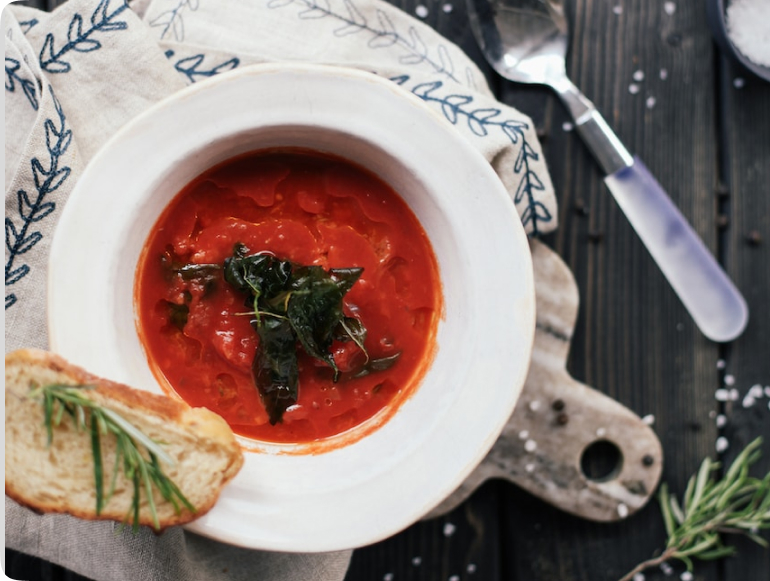
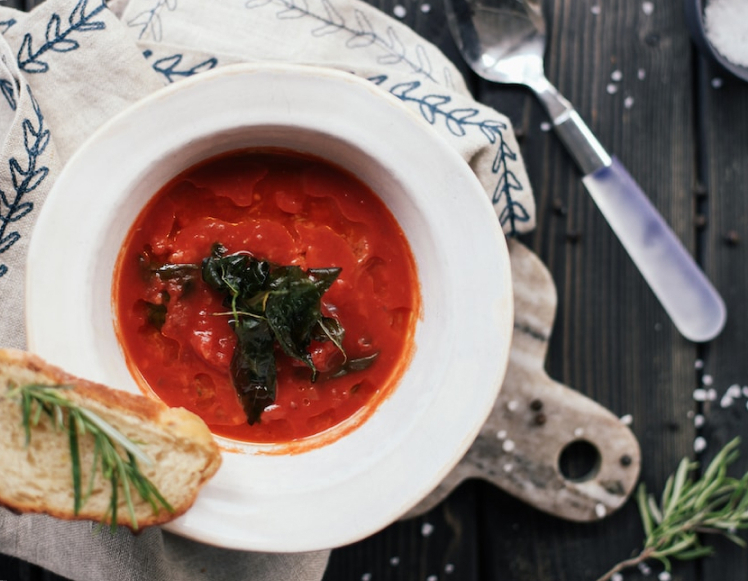
news

diff --git a/src/html_components/_values.html b/src/html_components/_values.html
@@ -2,44 +2,36 @@
     <h2 class="title title_h2 title_h2--marron">наши ценности</h2>
     <div class="box box_values">
         <div class="box__item box__item_values">
-            <picture>
-                <source srcset="img/about2-pc@1x.jpg" media="(min-width: 1200px)" sizes="100w">
-                <source srcset="img/about2-tablet@1x.jpg" media="(min-width: 768px)" sizes="100w">
-                <img class="box__picture" src="img/about2-mobile@1x.jpg" alt="" width="100%">
-            </picture>
+            <div class="box__foo">
+                <img class="recepies__picture" src="img/about2-pc@1x.webp" alt="">
+            </div>
             <div class="box__mind">
                 <h3 class="title title_h3 title_h3-mind">пришел увидел заказал</h3>
                 <p class="text text_mind">Мы создали платформу, на которой Вы можете ознакомится с Региональными Рецептами Испании и заказать продукты в точном количестве, которое нужно для приготовления</p>
             </div>
         </div>
         <div class="box__item box__item_values">
-            <picture>
-                <source srcset="img/about3-pc@1x.jpg" media="(min-width: 1200px)">
-                <source srcset="img/about3-tablet@1x.jpg" media="(min-width: 768px)">
-                <img class="box__picture box__picture_green" src="img/about3-mobile@1x.jpg" alt="">
-            </picture>
+            <div class="box__foo">
+                <img class="recepies__picture" src="img/about2-pc@1x.webp" alt="">
+            </div>
             <div class="box__mind box__mind_green">
                 <h3 class="title title_h3 title_h3-mind">Мы - то, что мы едим</h3>
                 <p class="text text_mind">То, что мы едим формирует наше состояние тела, а с ним и настроение</p>
             </div>
         </div>
         <div class="box__item box__item_values">
-            <picture>
-                <source srcset="img/about4-pc@1x.jpg" media="(min-width: 1200px)">
-                <source srcset="img/about4-tablet@1x.jpg" media="(min-width: 768px)">
-                <img class="box__picture" src="img/about4-mobile@1x.jpg" alt="">
-            </picture>
+            <div class="box__foo">
+                <img class="recepies__picture" src="img/about2-pc@1x.webp" alt="">
+            </div>
             <div class="box__mind">
                 <h3 class="title title_h3 title_h3-mind">Работаем с целеустремленными людьми</h3>
                 <p class="text text_mind">Мы уверены, что уменьшить загрязнение окружающей нас среды лежит в нашем питании. Сезонные продукты, уменьшение отбросов, покупки у небольших фермерских хозяйств - идеальная форма следовать природным циклам</p>
             </div>
         </div>
         <div class="box__item box__item_values">
-            <picture>
-                <source srcset="img/about5-pc@1x.jpg" media="(min-width: 1200px)">
-                <source srcset="img/about5-tablet@1x.jpg" media="(min-width: 768px)">
-                <img class="box__picture box__picture_green" src="img/about5-mobile@1x.jpg" alt="">
-            </picture>
+            <div class="box__foo">
+                <img class="recepies__picture" src="img/about2-pc@1x.webp" alt="">
+            </div>
             <div class="box__mind box__mind_green">
                 <h3 class="title title_h3 title_h3-mind">Кухня объединяет</h3>
                 <p class="text text_mind">Готовить дома - полезно. В этом много преимуществ - делиться кулинарным опытом с родственниками, адаптировать рецепты “под себя”, быть сознательными в том, что мы едим, расширять горизонты и наслаждаться нашим блюдом</p>

diff --git a/src/html_components/_us.html b/src/html_components/_us.html
@@ -1,10 +1,8 @@
 <section class="us">
     <h2 class="title title_h2">о нас</h2>
-    <picture>
-        <source srcset="img/about1-pc@1x.webp" media="(min-width: 1200px)">
-        <source srcset="img/about1-tablet@1x.webp" media="(min-width: 768px)">
-        <img class="us__picture" src="img/about1-mobile@1x.webp" alt="">
-    </picture>
+    <div class="box__foo">
+        <img class="recepies__picture" src="img/image1.webp" alt="">
+    </div>
     <p class="text text_us">Меня зовут Илья и я начал этот блог потому что хочу собрать и сохранить рецепты многочисленных регионов Испании, которые называют Испанская кухня. Я жил в Испании, в Мадриде. И хотя учился на геолога, но мне всегда нравилась готовить, поэтому я посвятил свое время именно этому делу</p>
     <p class="text text_us">Я много путешествовал по Испании и не переставал открывать для себя новые блюда, новые рецепты, новые вкусы, новые сочетания. Испанская кухня — это прежде всего морепродукты — Испанию омывают моря и океан. Морепродукты на любой вкус и кошелек. Также есть качественное мясо, сыры, фрукты и т.д. Можно продолжать очень долго</p>
     <p class="text text_us">Также я хочу публиковать мнения приглашенных авторов, чьи взгляды на питание и образ жизни я разделяю</p>

diff --git a/src/html_components/_authors.html b/src/html_components/_authors.html
@@ -2,11 +2,9 @@
     <h2 class="title title_h2 title_h2--marron">Приглашенные авторы</h2>
     <div class="box box_authors">
         <div class="box__item box__item_authors">
-            <picture>
-                <source srcset="img/about6-pc@1x.jpg" media="(min-width: 1728px)">
-                <source srcset="img/about6-tablet@1x.jpg" media="(min-width: 768px)">
-                <img class="box__picture" src="img/about6-mobile@1x.jpg" alt="">
-            </picture>
+            <div class="box__foo">
+                <img class="recepies__picture" src="img/maria.webp" alt="">
+            </div>
             <div class="box__info box__info_authors">
                 <h3 class="title title_h3">александр иванов</h3>
                 <div class="tags">
@@ -18,11 +16,9 @@
             </div>
         </div>
         <div class="box__item box__item_authors">
-            <picture>
-                <source srcset="img/about7-pc@1x.jpg" media="(min-width: 1728px)">
-                <source srcset="img/about7-tablet@1x.jpg" media="(min-width: 768px)">
-                <img class="box__picture" src="img/about7-mobile@1x.jpg" alt="">
-            </picture>
+            <div class="box__foo">
+                <img class="recepies__picture" src="img/maria.webp" alt="">
+            </div>
             <div class="box__info box__info_authors">
                 <h3 class="title title_h3">мария фернандо</h3>
                 <div class="tags">

diff --git a/src/html_components/_news-item.html b/src/html_components/_news-item.html
@@ -1,9 +1,7 @@
 <article class="box box__item box__item_news">
-	<picture>
-		<source srcset="img/news-category-pc@1x.webp" media="(min-width: 1200px)">
-		<source srcset="img/news-category-tablet@1x.webp" media="(min-width: 744px)">
-		<img class="box__picture box__picture-news" src="img/news-category-mobile@1x.webp" alt="">
-	</picture>
+	<div class="box__foo">
+		<img class="recepies__picture" src="img/maria.webp" alt="">
+	</div>
 	<div class="box__info-news">
 		<h3 class="title title_h3">10 поваров со всего мира соревнуются в приготовлении лучшего рецепта Паэльи</h2>
 		<p class="text text_news">Футбольный матч — ерунда по сравнению с тем, какой накал страстей происходил в Валенсии на Всемирном дне паэльи. 10 поваров со всего мира соревновались в искусстве приготовления этого блюда. Список покупок участников выглядит как вечеринка ООН, куда все хотят принести частичку своей страны. Помимо традиционного риса здесь можно заметить лук, темное пиво, грушевый сироп, утиную грудку, шафран, тофу, солерос и даже куй, характерный для андской кухни</p>

diff --git a/src/scss/_box.scss b/src/scss/_box.scss
@@ -505,9 +505,12 @@
             }
         }
 
+        &__foo {
+            flex-basis: 50%;
+        }
+
         &__mind {
             flex-basis: 50%;
-            padding: 88px;
             border-top-right-radius: 10px;
             border-bottom-left-radius: 0;
 

diff --git a/src/scss/_recepies.scss b/src/scss/_recepies.scss
@@ -2,10 +2,6 @@
     display: flex;
     flex-direction: column;
     gap: 40px;
-
-    &__picture {
-        border-radius: 10px;
-    }
 }
 
 @media (min-width: $tv) {

diff --git a/src/scss/_link.scss b/src/scss/_link.scss
@@ -23,7 +23,7 @@
     }
 
     &_main {
-        grid-column: 1/2;
+        grid-column: 1/4;
         grid-row: 4/5;
     }
 

diff --git a/src/scss/_vars.scss b/src/scss/_vars.scss
@@ -10,7 +10,7 @@ li {
 }
 
 img {
-    max-width: 100%;
+    width: 100%;
     height: auto;
 }
 
